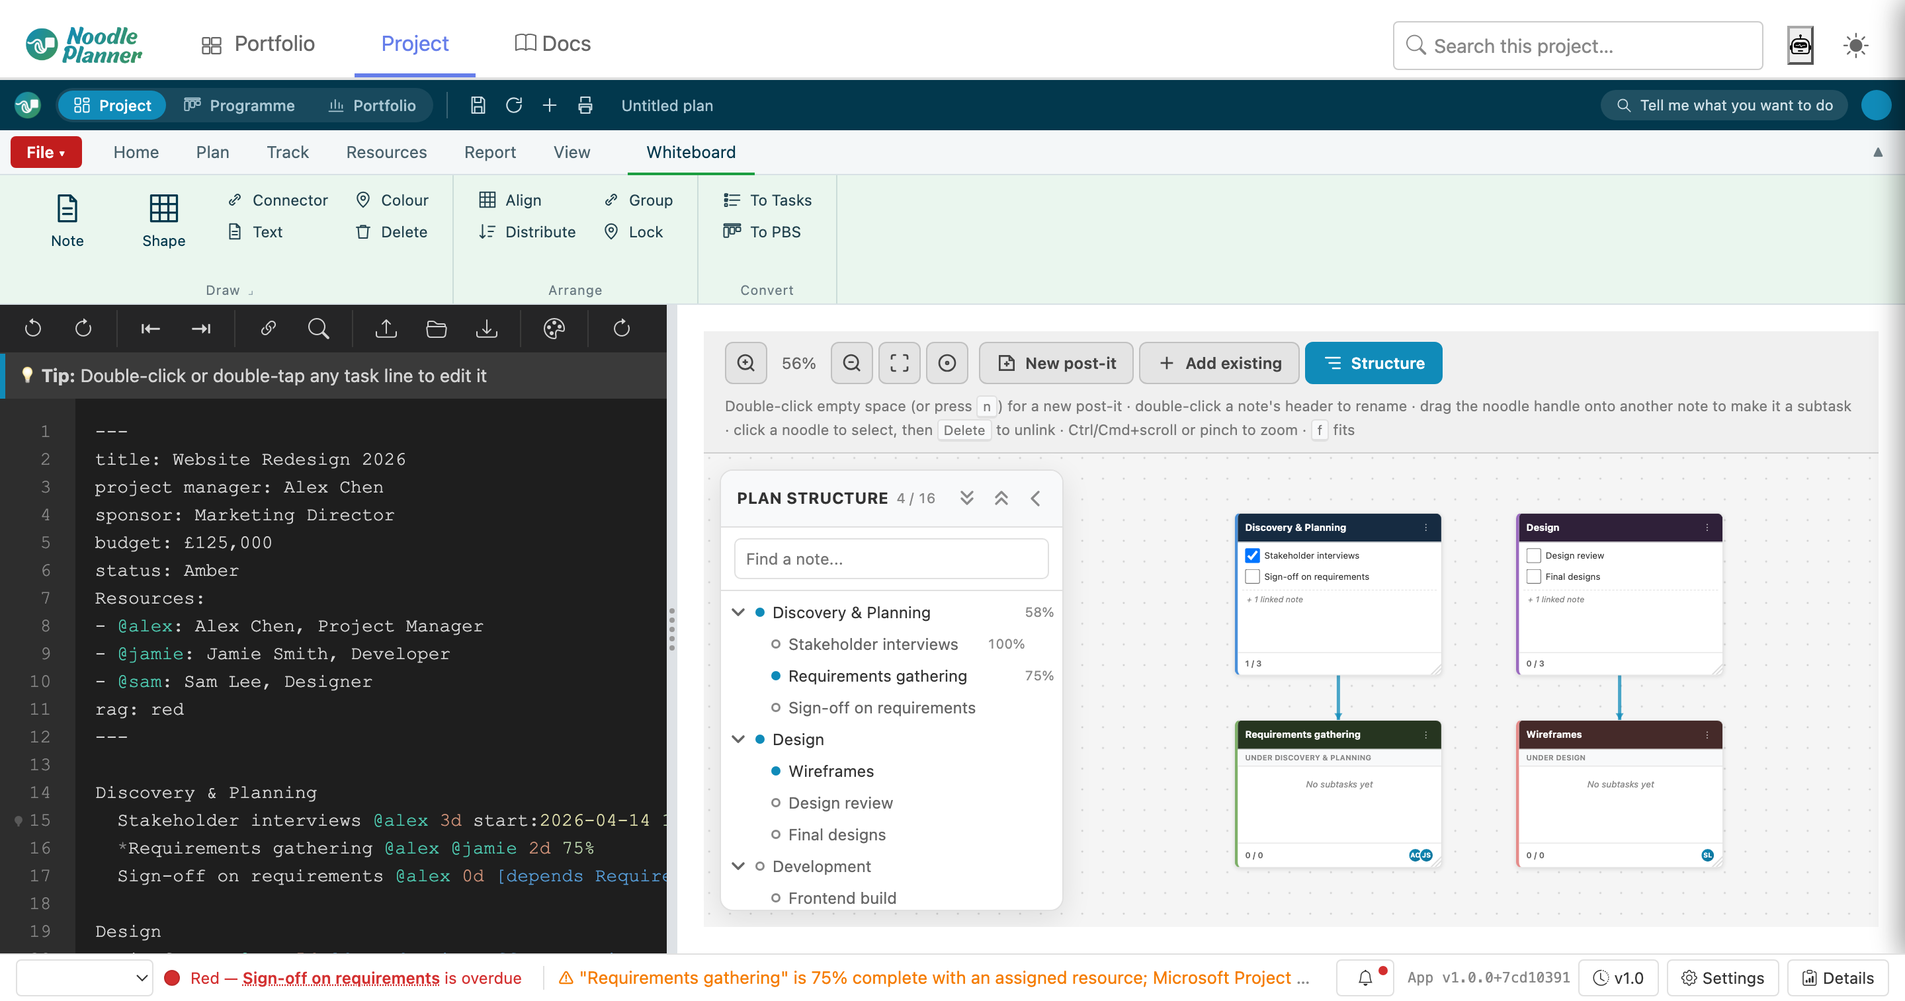
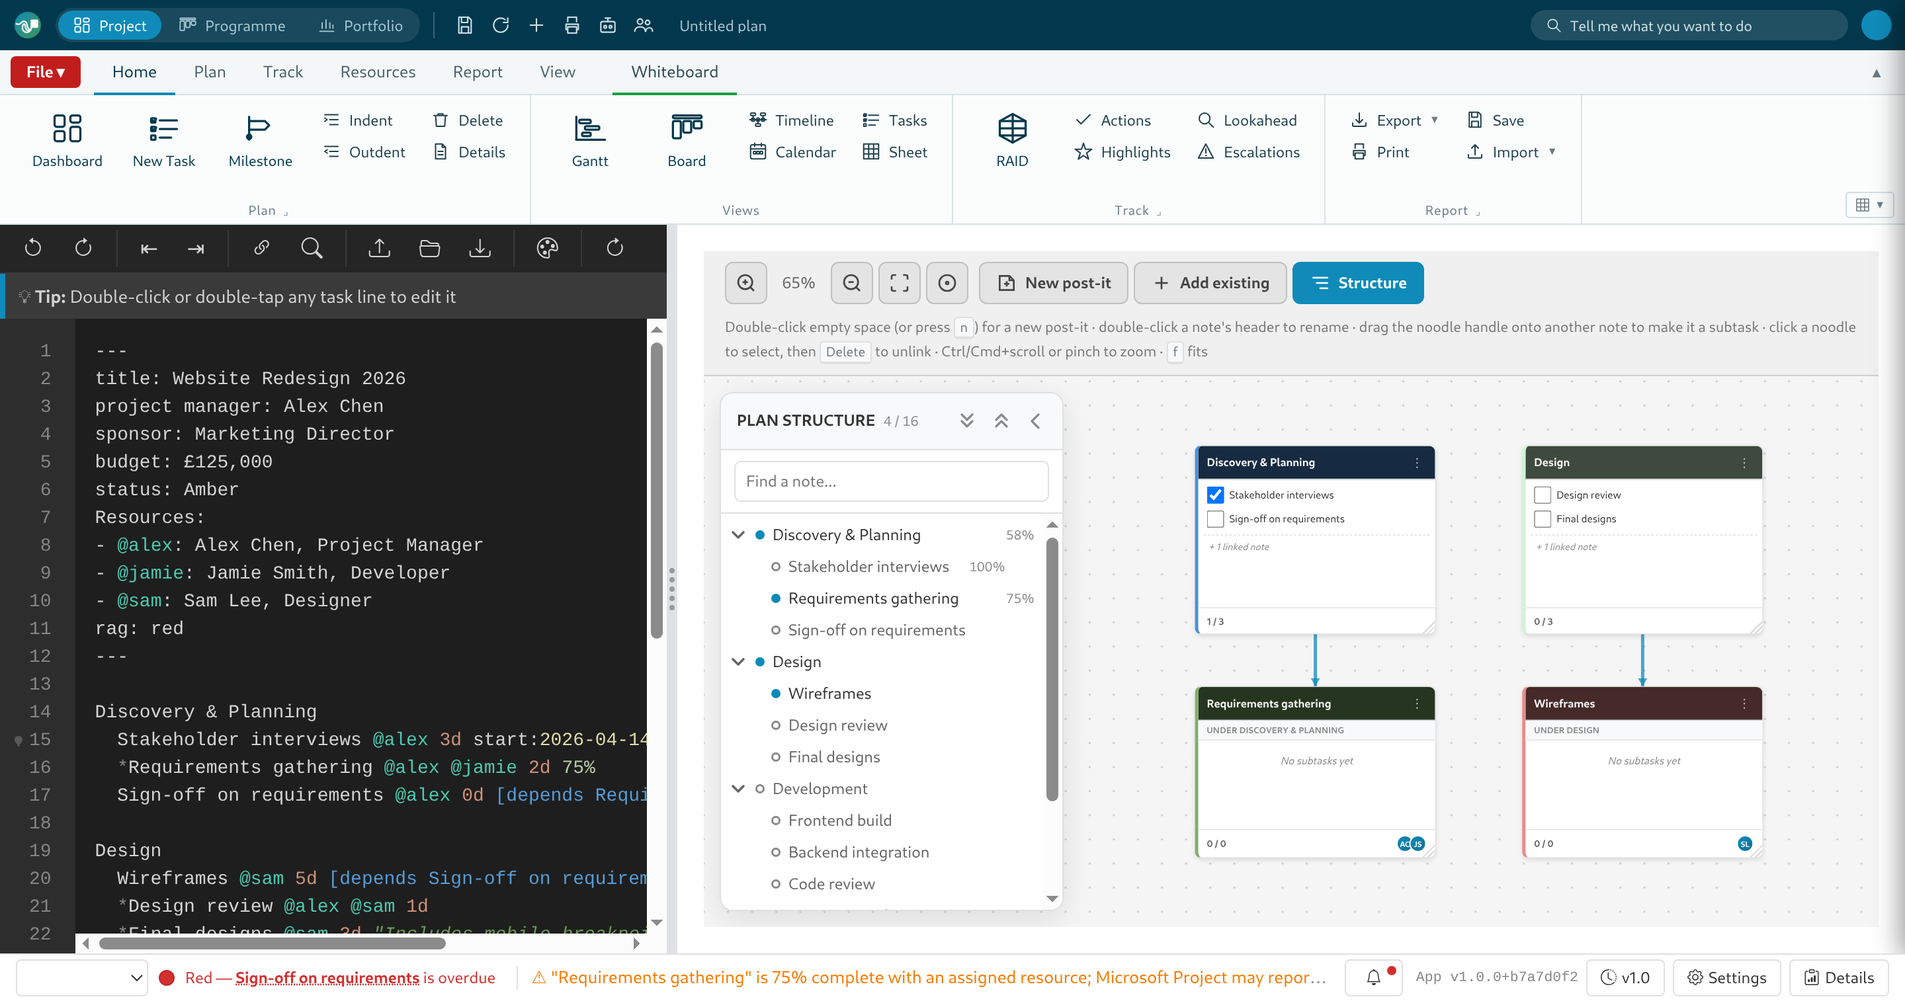
feat: pastel colour palette for whiteboard notes (#1017)
Replace the whiteboard note colour menu's three swatch grids (a
saturated "Palette" plus the boards view's own "Pastel"/"Dark"
conditional-formatting swatches, borrowed from mindmap.js's
MM_BRANCH_COLOURS and kanban.js/state.js's CF_PASTEL_COLOURS/
CF_DARK_COLOURS) with a single fixed pastel "post-it" palette dedicated
to whiteboard notes: two soft shades each of yellow, pink, green, blue
and red. A note's colour is now unambiguously personal, manual
shorthand, with no relationship to the boards view's rule-based
conditional formatting and no borrowed dependency on another system's
palette.

This is a picker-source change only: the Theme:-front-matter storage/
precedence mechanism (row Colour -> Theme: -> derived palette) is
untouched, so existing notes' stored colour values are never rewritten.
An old colour picked from #849's previous grids (or any other
hex) keeps rendering exactly as stored even though it no longer matches
a current swatch -- it just won't show as "selected" until a new pick
is made.

Claude-Session: https://claude.ai/code/session_015U7Lgjw6hjsnTC4ASJCies

diff --git a/packages/noodle-web/src/noodle_web/static/whiteboard-notes.js b/packages/noodle-web/src/noodle_web/static/whiteboard-notes.js
@@ -54,9 +54,24 @@
  *      colour picked from any of the three views shows up in the other
  *      two). This is what the `...` menu writes.
  *   3. A palette colour derived from the task's position in `result.tasks`
- *      (wbDerivedPaletteColour(), reusing mindmap.js's MM_BRANCH_COLOURS --
- *      not a new palette) -- always defined, so a note is never left
- *      uncoloured; "clear" in the menu means "fall back to this".
+ *      (wbDerivedPaletteColour(), drawing from WB_NOTE_PASTEL_COLOURS --
+ *      the fixed pastel "post-it" palette issue #1017 introduced,
+ *      dedicated to this file and not shared with the mind map's or the
+ *      boards view's own palettes) -- always defined, so a note is never
+ *      left uncoloured; "clear" in the menu means "fall back to this".
+ *
+ * A note's colour is manual, per-note shorthand: picking a swatch has no
+ * semantic or conditional-formatting meaning, and is entirely unrelated
+ * to the boards view's rule-based conditional formatting (kanban.js/
+ * state.js's CF_PASTEL_COLOURS/CF_DARK_COLOURS, a different, rule-driven
+ * system -- see #1017). It still writes into the plan's shared `Theme:`
+ * front matter (tier 2 above), exactly as #849 did -- that storage/
+ * precedence mechanism is unchanged; only the swatches offered changed.
+ * An old colour value that doesn't match any current swatch (e.g. one
+ * picked from #849's old MM_BRANCH_COLOURS/CF_* grids, or a hand-edited
+ * hex) still renders exactly as stored -- rendering never requires a
+ * value to match a known swatch, it just won't show as "selected" in
+ * the menu until a new pick is made.
  *
  * See wbResolveNoteColour() for the implementation and
  * docs/reference/plan-format.rst's "Whiteboard rows" section for the
@@ -303,24 +318,52 @@ function wbContrastTextColour(bgHex) {
 }
 
 /**
- * The swatch palette to offer, reusing mindmap.js's MM_BRANCH_COLOURS
- * rather than inventing a second one (per the issue's explicit "do not
- * invent a third palette" instruction -- the mind map's own is already
- * the second, alongside kanban.js's Theme: values). Falls back to a
- * literal copy of the same values only for this file's own vm-sandboxed
- * unit tests (test_whiteboard_notes.js loads whiteboard-notes.js alone,
- * without mindmap.js) -- the real app always has mindmap.js loaded first
- * (see index.html's <script> order), so the fallback never runs there.
+ * A fixed pastel "post-it" palette, dedicated to whiteboard notes (issue
+ * #1017 -- supersedes #849/#840's choice of swatch source, not #849's
+ * menu/interaction pattern itself, which is unchanged). Two soft shades
+ * each of yellow, pink, green, blue and red -- genuinely pastel (high
+ * lightness, low saturation) rather than the saturated hues elsewhere in
+ * the app, so notes read like real paper stickies.
+ *
+ * Deliberately NOT mindmap.js's MM_BRANCH_COLOURS (the mind map's own
+ * branch palette) and NOT kanban.js/state.js's CF_PASTEL_COLOURS /
+ * CF_DARK_COLOURS (the boards view's rule-based *conditional formatting*
+ * swatches -- "CF" == Conditional Formatting) -- #849 borrowed both of
+ * those (see git history), which is exactly the coupling #1017 removes:
+ * a note's colour is personal shorthand picked by hand, with no
+ * relationship to the boards view's rule engine and no third system's
+ * palette silently doubling as this one's. A colour picked here still
+ * writes into the plan's `Theme:` front matter, same as #849 (see
+ * wbApplyNoteColourToPlanText() below) -- that write path, and the
+ * row-Colour -> Theme: -> derived-palette precedence built on it, is a
+ * markdown-format/storage concern this issue does not touch, only which
+ * swatches the menu *offers* changes.
+ *
+ * Contrast is verified by tests/test_whiteboard_note_colour.py's
+ * TestNoteColourContrast against the real rendered header in both
+ * themes; a swatch's raw value is never applied directly as a
+ * background (wbUpdateNoteNode() always darkens it via wbShadeColour(_,
+ * 0.3) first — see that call for why every pastel here still yields a
+ * dark, legible header fill).
+ */
+const WB_NOTE_PASTEL_COLOURS = [
+    '#FFF3B0', '#FCE38A', // yellow
+    '#FFD6E0', '#F7A8B8', // pink
+    '#CFF4D2', '#B8E6B8', // green
+    '#C7E5FF', '#A9D6F5', // blue
+    '#FFCBC1', '#FFAFA3', // red
+];
+
+/**
+ * The swatch palette to offer -- see WB_NOTE_PASTEL_COLOURS above for why
+ * this is its own fixed list rather than a reuse of some other system's
+ * palette. Also backs tier 3 of the colour precedence
+ * (wbDerivedPaletteColour() below), so a note that has never had a
+ * colour picked still gets a soft, on-brand default instead of an
+ * arbitrary saturated one.
  */
 function wbPalette() {
-    if (typeof MM_BRANCH_COLOURS !== 'undefined' && MM_BRANCH_COLOURS.length) {
-        return MM_BRANCH_COLOURS;
-    }
-    return [
-        '#4A90D9', '#D97B4A', '#5CB85C', '#D95B5B',
-        '#9B6BBF', '#3DBFA8', '#D9A84A', '#5B8FD9',
-        '#4ABF7F', '#D9534F', '#D9B84A', '#8E5BBF',
-    ];
+    return WB_NOTE_PASTEL_COLOURS;
 }
 
 /**
@@ -844,7 +887,7 @@ if (typeof module !== 'undefined' && module.exports) {
         wbNoteProgress, wbGetInitials, wbResourceList, wbRelativeLuminance,
         wbContrastRatio, wbContrastTextColour, wbNoteZoomTier,
         wbBuildNoteViewModel, wbNoteViewModels, wbBuildPeekLevel,
-        wbPalette, wbShadeColour, wbDerivedPaletteColour, wbThemeColourFor,
+        wbPalette, WB_NOTE_PASTEL_COLOURS, wbShadeColour, wbDerivedPaletteColour, wbThemeColourFor,
         wbResolveNoteColour,
         wbDragBoardDelta, wbClampNoteWidth, wbClampNoteHeight,
         wbExceedsMoveThreshold, wbMoveTaskToEnd,
@@ -2007,13 +2050,19 @@ function wbAppendRemoveMenuSection(list, taskName) {
 }
 
 /**
- * Append this issue's entire contribution to the note menu: a "Default
- * colour" action (tier 3 of the precedence -- clears any row/Theme:
- * override) followed by the mind map's own swatch grids (Palette ==
- * MM_BRANCH_COLOURS, Pastel == CF_PASTEL_COLOURS, Dark == CF_DARK_COLOURS
- * -- see the issue's "do not invent a third palette" instruction), each
- * as a labelled <li> + a grid <li> so keyboard users can jump between
- * items with wbNoteMenuKeydown()'s Arrow/Home/End handling.
+ * Append the colour section of the note menu: a "Default colour" action
+ * (tier 3 of the precedence -- clears any row/Theme: override) followed
+ * by a single labelled swatch grid drawing from wbPalette() -- the fixed
+ * pastel "post-it" palette (WB_NOTE_PASTEL_COLOURS, issue #1017), as one
+ * labelled <li> + a grid <li> so keyboard users can jump between items
+ * with wbNoteMenuKeydown()'s Arrow/Home/End handling.
+ *
+ * #849 originally offered three grids here (a saturated "Palette" plus
+ * the boards view's own "Pastel"/"Dark" conditional-formatting swatches,
+ * CF_PASTEL_COLOURS/CF_DARK_COLOURS from kanban.js/state.js) -- #1017
+ * replaced all three with this one dedicated pastel palette, precisely
+ * so a note's colour stops borrowing another system's swatches. See
+ * WB_NOTE_PASTEL_COLOURS's own doc comment for the full rationale.
  */
 function wbAppendColourMenuSection(list, taskName) {
     const currentColour = wbCurrentNoteColour(taskName);
@@ -2052,9 +2101,7 @@ function wbAppendColourMenuSection(list, taskName) {
         list.appendChild(gridLi);
     }
 
-    addSection('Palette', wbPalette());
-    addSection('Pastel', (typeof CF_PASTEL_COLOURS !== 'undefined') ? CF_PASTEL_COLOURS : []);
-    addSection('Dark', (typeof CF_DARK_COLOURS !== 'undefined') ? CF_DARK_COLOURS : []);
+    addSection('Colour', wbPalette());
 }
 
 /**

diff --git a/tests/test_whiteboard_notes.js b/tests/test_whiteboard_notes.js
@@ -258,6 +258,16 @@ const tasks = [
     const palette = wbPalette();
     assert(Array.isArray(palette) && palette.length > 0, 'wbPalette() returns a non-empty swatch list');
 
+    // Issue #1017: wbPalette() is a fixed pastel "post-it" palette dedicated
+    // to whiteboard notes -- no longer mindmap.js's MM_BRANCH_COLOURS (this
+    // sandbox never loads mindmap.js, so a residual dependency on it would
+    // throw a ReferenceError or yield an empty list rather than pass above),
+    // and no longer the boards view's own CF_PASTEL_COLOURS/CF_DARK_COLOURS
+    // conditional-formatting swatches.
+    assert(palette.length === 10, 'wbPalette() offers ten dedicated pastel swatches (two shades each of yellow/pink/green/blue/red)');
+    assert(palette.every(c => /^#[0-9A-Fa-f]{6}$/.test(c)), 'every palette entry is a valid #RRGGBB colour');
+    assert(wbPalette() === palette, 'wbPalette() returns the same fixed list on every call, not a fresh copy');
+
     // wbShadeColour: factor < 1 darkens, factor > 1 blends towards white.
     assert(wbShadeColour('#808080', 0.5) === '#404040', 'factor 0.5 halves each channel');
     assert(wbShadeColour('#000000', 1.5) === '#808080', 'factor 1.5 blends black half-way to white');

diff --git a/tests/test_whiteboard_note_colour.py b/tests/test_whiteboard_note_colour.py
@@ -388,10 +388,10 @@ class TestNoteColourPrecedenceAndPersistence:
         switch_to_whiteboard(browser)
 
         before = note_header_style(browser, "Build")
-        pick_swatch(browser, "Build", "#D95B5B")
+        pick_swatch(browser, "Build", "#FFAFA3")
         after = note_header_style(browser, "Build")
 
-        assert after["accent"].upper() == "#D95B5B", \
+        assert after["accent"].upper() == "#FFAFA3", \
             "the accent bar takes the raw swatch colour right away, before the debounced commit lands"
         assert after["background"] != before["background"]
 
@@ -400,10 +400,10 @@ class TestNoteColourPrecedenceAndPersistence:
         load_plan(browser, SAMPLE_PLAN)
         switch_to_whiteboard(browser)
 
-        pick_swatch(browser, "Build", "#D95B5B")
+        pick_swatch(browser, "Build", "#FFAFA3")
         after = wait_for_stable_plan_text(browser, timeout=5.0, quiet=1.0)
 
-        assert "- Build: #D95B5B" in after, after
+        assert "- Build: #FFAFA3" in after, after
         assert "- Discovery: #4A90D9" in after, "an unrelated Theme: entry must survive untouched"
 
     def test_clearing_returns_to_derived_palette_and_leaves_no_residue(self, browser, app_server):
@@ -411,13 +411,13 @@ class TestNoteColourPrecedenceAndPersistence:
         load_plan(browser, SAMPLE_PLAN)
         switch_to_whiteboard(browser)
 
-        pick_swatch(browser, "Build", "#D95B5B")
+        pick_swatch(browser, "Build", "#FFAFA3")
         wait_for_stable_plan_text(browser, timeout=5.0, quiet=1.0)
 
         pick_default(browser, "Build")
         after = wait_for_stable_plan_text(browser, timeout=5.0, quiet=1.0)
 
-        assert "Build: #D95B5B" not in after
+        assert "Build: #FFAFA3" not in after
         assert "- Build:" not in after, "clearing must remove the Theme: entry, not blank it"
 
         style = note_header_style(browser, "Build")
@@ -481,16 +481,17 @@ class TestNoteColourRename:
 class TestNoteColourContrast:
     """Programmatic WCAG AA contrast checks against the *real* rendered
     header, in both themes, for every swatch the menu offers -- not an
-    eyeballed screenshot."""
+    eyeballed screenshot.
+
+    Issue #1017 replaced the three swatch grids #849 offered (a saturated
+    "Palette" plus the boards view's own "Pastel"/"Dark" conditional-
+    formatting swatches) with a single fixed pastel palette dedicated to
+    whiteboard notes -- wbPalette() alone is now the complete swatch list
+    the menu offers, so that's the only source this test needs.
+    """
 
     def _swatch_hexes(self, driver):
-        return driver.execute_script(
-            """
-            return wbPalette()
-                .concat(typeof CF_PASTEL_COLOURS !== 'undefined' ? CF_PASTEL_COLOURS : [])
-                .concat(typeof CF_DARK_COLOURS !== 'undefined' ? CF_DARK_COLOURS : []);
-            """
-        )
+        return driver.execute_script("return wbPalette();")
 
     def _assert_all_swatches_meet_aa(self, driver, task_name):
         for colour in self._swatch_hexes(driver):
@@ -519,3 +520,98 @@ class TestNoteColourContrast:
         browser.execute_script("document.documentElement.setAttribute('data-theme', 'dark');")
 
         self._assert_all_swatches_meet_aa(browser, "Build")
+
+
+class TestFixedPastelPalette:
+    """Issue #1017: the menu offers exactly one fixed pastel palette --
+    not #849's three grids (a saturated "Palette" plus the boards view's
+    own "Pastel"/"Dark" conditional-formatting swatches)."""
+
+    def test_menu_offers_only_the_fixed_pastel_palette(self, browser, app_server):
+        open_app(browser, app_server)
+        load_plan(browser, SAMPLE_PLAN)
+        switch_to_whiteboard(browser)
+
+        menu = open_menu(browser, "Discovery")
+        swatch_titles = [
+            s.get_attribute("title")
+            for s in menu.find_elements(By.CSS_SELECTOR, ".wb-note-menu-swatch")
+        ]
+        expected = browser.execute_script("return wbPalette();")
+
+        assert sorted(t.upper() for t in swatch_titles) == sorted(c.upper() for c in expected), (
+            "the menu's swatches must be exactly wbPalette() -- no leftover "
+            "conditional-formatting or mind-map colours"
+        )
+        assert len(menu.find_elements(By.CSS_SELECTOR, ".wb-note-menu-grid")) == 1, \
+            "a single pastel grid replaces #849's three (Palette/Pastel/Dark) grids"
+
+    def test_palette_is_pastel_not_saturated(self, browser, app_server):
+        # A crude but effective "is this actually pastel" check: every
+        # swatch must be high-lightness (HSL L well above 50%), unlike the
+        # old saturated MM_BRANCH_COLOURS palette (e.g. #4A90D9).
+        open_app(browser, app_server)
+        load_plan(browser, SAMPLE_PLAN)
+        switch_to_whiteboard(browser)
+
+        lightness_values = browser.execute_script(
+            """
+            return wbPalette().map(function(hex) {
+                const r = parseInt(hex.slice(1, 3), 16) / 255;
+                const g = parseInt(hex.slice(3, 5), 16) / 255;
+                const b = parseInt(hex.slice(5, 7), 16) / 255;
+                const max = Math.max(r, g, b), min = Math.min(r, g, b);
+                return (max + min) / 2;
+            });
+            """
+        )
+        assert all(l >= 0.75 for l in lightness_values), (
+            f"every swatch should read as genuinely pastel (high lightness), got {lightness_values}"
+        )
+
+
+class TestNoteColourBackwardCompatibility:
+    """Issue #1017's explicit backward-compatibility requirement: a colour
+    value set before the fixed pastel palette existed (e.g. a Theme: entry
+    picked from #849's old MM_BRANCH_COLOURS/CF_* grids, or a hand-edited
+    hex in the row's own Colour column) must keep rendering with SOME
+    colour rather than breaking, even though it no longer matches any
+    swatch the menu currently offers."""
+
+    def test_old_theme_colour_outside_the_new_palette_still_renders(self, browser, app_server):
+        # SAMPLE_PLAN's `Theme:\n- Discovery: #4A90D9` is exactly this case:
+        # a saturated colour that predates #1017's pastel palette.
+        open_app(browser, app_server)
+        load_plan(browser, SAMPLE_PLAN)
+        switch_to_whiteboard(browser)
+
+        style = note_header_style(browser, "Discovery")
+        assert style["accent"].upper() == "#4A90D9", \
+            "an old, non-pastel Theme: colour must still render as-is, not be remapped or dropped"
+        assert style["background"], "the header must still get a real (shaded) background colour"
+
+        # Opening the menu on this note must not error, and since #4A90D9
+        # isn't one of the new swatches, none should show as selected.
+        menu = open_menu(browser, "Discovery")
+        selected = menu.find_elements(By.CSS_SELECTOR, ".wb-note-menu-swatch.selected")
+        assert selected == [], \
+            "an old colour outside the new palette must not falsely match one of its swatches"
+
+    def test_hand_set_row_colour_outside_the_new_palette_still_renders(self, browser, app_server):
+        # A hand-edited whiteboard-row Colour is tier 1 of the precedence
+        # and always wins; it can be any hex, old palette or new.
+        plan = SAMPLE_PLAN.replace(
+            "| Build     | 480 | 80 |        | 280   | 260    | no        |",
+            "| Build     | 480 | 80 | #123456 | 280   | 260    | no        |",
+        )
+        open_app(browser, app_server)
+        load_plan(browser, plan)
+        switch_to_whiteboard(browser)
+
+        style = note_header_style(browser, "Build")
+        assert style["accent"].upper() == "#123456"
+        bg_hex = rgb_to_hex(style["background"])
+        text_hex = rgb_to_hex(style["color"])
+        ratio = contrast_ratio(browser, bg_hex, text_hex)
+        assert ratio >= 4.5, \
+            "even an arbitrary hand-set colour must still get a legible header via wbShadeColour()/wbContrastTextColour()"

diff --git a/docs/capture_screenshots.py b/docs/capture_screenshots.py
@@ -365,8 +365,9 @@ def capture_how_to(driver, base_url):
     time.sleep(0.6)
     capture_full(driver, section / "wb-01-whiteboard-notes.png")
 
-    # wb-02: Note colour menu (issue #849) — open the first note's `...`
-    # menu so the Palette/Pastel/Dark swatch grid is visible.
+    # wb-02: Note colour menu (issue #849, palette replaced by #1017) —
+    # open the first note's `...` menu so the fixed pastel swatch grid
+    # is visible.
     menu_btn = driver.find_elements(By.CSS_SELECTOR, ".wb-note-menu-btn")
     if menu_btn:
         menu_btn[0].click()

diff --git a/docs/reference/plan-format.rst b/docs/reference/plan-format.rst
@@ -417,12 +417,23 @@ resolved in this order, highest priority first:
    write, so a colour set on any one of the three views shows up on the
    other two, and renaming the summary task carries the colour with it
    (the rename migrates the ``Theme`` key alongside the phase/task name).
-3. Otherwise, a colour derived from the task's position in the outline (the
-   same swatch palette the mind map's branch colours use). Every note
-   always has a colour by this rule -- there is no "uncoloured" state.
-   Choosing "Default colour" in the `...` menu removes both the ``Theme``
-   entry and any stray ``Colour`` column value, returning the note to this
-   derived colour.
+3. Otherwise, a colour derived from the task's position in the outline,
+   drawn from a fixed pastel "post-it" palette (soft yellows, pinks,
+   greens, blues and reds) dedicated to whiteboard notes -- not the mind
+   map's own branch palette, and not the Kanban board's rule-based
+   conditional formatting swatches. Every note always has a colour by
+   this rule -- there is no "uncoloured" state. Choosing "Default colour"
+   in the `...` menu removes both the ``Theme`` entry and any stray
+   ``Colour`` column value, returning the note to this derived colour.
+
+A note's colour is manual, per-note shorthand -- picking a swatch has no
+semantic or conditional-formatting meaning, and is unrelated to the Kanban
+board's own rule-based conditional formatting (a different, rule-driven
+colour system). A colour value already stored from before the pastel
+palette was introduced (e.g. one of the mind map's or the boards view's
+own swatches) keeps rendering exactly as stored even though it no longer
+matches any of the menu's current swatches -- it just won't show as
+"selected" until a new pick is made from the current palette.
 
 Where plan data lives
 ----------------------

diff --git a/docs/how-to/use-the-whiteboard.rst b/docs/how-to/use-the-whiteboard.rst
@@ -126,15 +126,15 @@ This popover is deliberately lightweight — just name, assignee and completion.
 Colour a Note
 ---------------
 
-Click the ``...`` menu in a note's top-right corner. The menu opens a swatch grid — Palette, Pastel and Dark rows, plus a **Default colour** option at the top to clear any colour you have set.
+Click the ``...`` menu in a note's top-right corner. The menu opens a swatch grid of soft pastel colours — two shades each of yellow, pink, green, blue and red — plus a **Default colour** option at the top to clear any colour you have set. This is purely a personal, manual choice: it carries no meaning of its own and has nothing to do with the Kanban board's rule-based conditional formatting.
 
 .. figure:: /_static/img/how-to/wb-02-note-colour-menu.png
-   :alt: A note's "..." menu open, showing the Default colour option and Palette/Pastel/Dark colour swatch grids
+   :alt: A note's "..." menu open, showing the Default colour option and a grid of pastel colour swatches
    :width: 100%
 
    The note colour menu, opened from a note's ``...`` button.
 
-A colour you pick here is the same colour the Kanban board's column header and the mind map's branch use for that task — set it on any one of the three views and it shows up on the other two. Pick **Default colour** to go back to the automatic palette colour NoodlePlanner assigns every task, based on its place in the outline.
+A colour you pick here is the same colour the Kanban board's column header and the mind map's branch use for that task — set it on any one of the three views and it shows up on the other two. Pick **Default colour** to go back to the automatic pastel colour NoodlePlanner assigns every task, based on its place in the outline.
 
 Remove a Note from the Board
 -------------------------------
